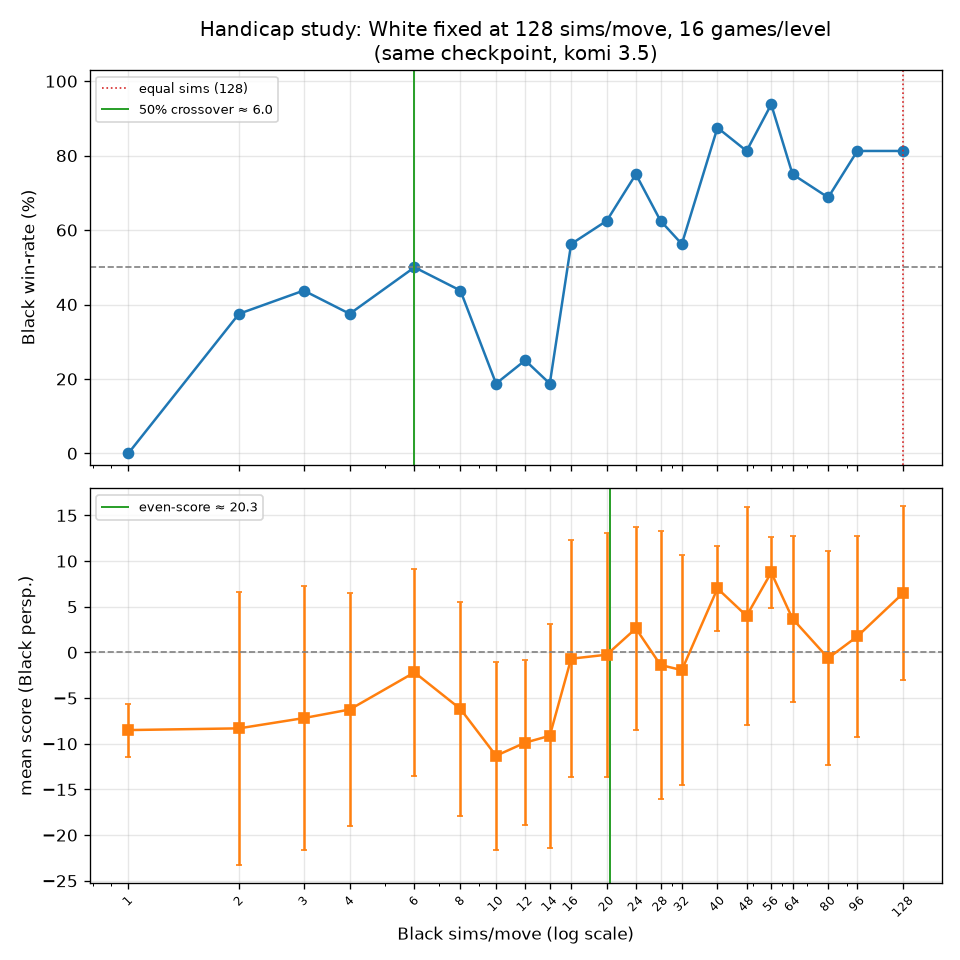
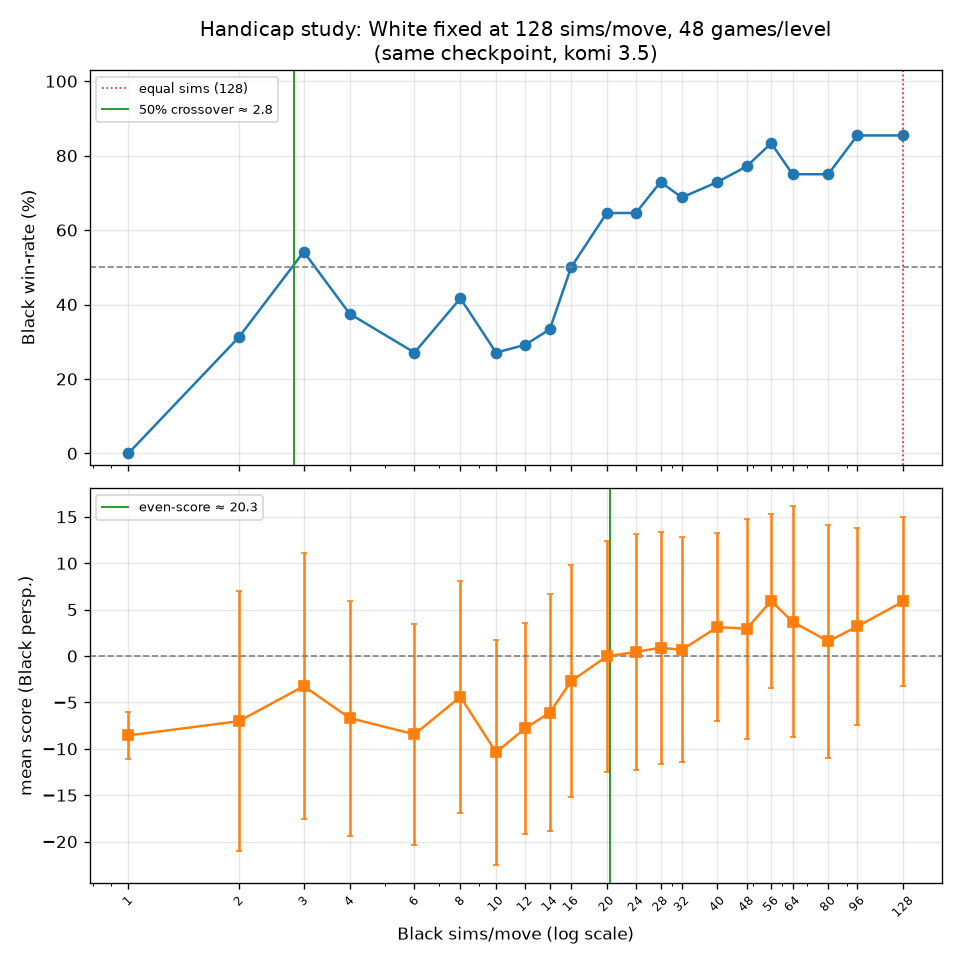
Resample handicap study at 48 games/point (smoother, sharper result)
Tripling games/point (16 -> 48) tightens the curves and sharpens the finding:
the win-rate crossover is even lower than the noisy first pass suggested
(~2 sims for White=64, ~3 for White=128), while the score-margin even point
shifts ~3x (~6 -> ~20 sims). Updates both per-White graphs, the comparison
figure, the README table, and the narrative.

diff --git a/README.md b/README.md
@@ -70,7 +70,7 @@ randomized-opening games at each point, and plots Black's win-rate and mean scor
 margin:
 
 ```bash
-uv run python -m scripts.handicap_study --white-sims 64 --games 16
+uv run python -m scripts.handicap_study --white-sims 64 --games 48
 # -> study/handicap_white64.png  +  study/handicap_white64.csv
 ```
 
@@ -79,18 +79,18 @@ uv run python -m scripts.handicap_study --white-sims 64 --games 16
 ![Handicap study, White fixed at 64 sims](study/handicap_white64.png)
 
 The crossover is **startlingly low**. Against White's 64 simulations, Black
-reaches a break-even win-rate at only **~5 simulations** — a **~13× search
-deficit** — and only *loses the majority* once its search collapses to **≤4
-sims** (essentially raw policy with no lookahead). Give Black even a handful of
-simulations and the first-move advantage reasserts itself.
+reaches a break-even win-rate at only **~2 simulations** — a **~32× search
+deficit** — and only *loses the majority* when reduced to **1 sim** (raw policy,
+no lookahead at all). A single simulation of search is enough to claw back to
+even; give Black a handful and the first-move advantage takes over.
 
 | Black sims vs White's 64 | Black win-rate | mean score (Black) |
 |---|---|---|
 | 1  | 0%   | −8.6 |
-| 4  | 25%  | −8.9 |
-| **~5** | **~50% (crossover)** | **~0** |
-| 8  | 75%  | +4.8 |
-| 64 (equal) | 100% | +7.8 |
+| **~2** | **~52% (win-rate crossover)** | −2.2 |
+| ~6 | 62%  | **~0 (score even)** |
+| 8  | 77%  | +2.8 |
+| 64 (equal) | 96%  | +7.7 |
 
 ### White = 128 simulations/move, and the side-by-side
 
@@ -100,10 +100,10 @@ simulations and the first-move advantage reasserts itself.
 
 Doubling White's search splits the two metrics:
 
-- **Win-rate crossover barely moves: ~5 → ~6 sims.** Winning is binary, and
-  Black's first-move advantage is so structural that a few simulations win *more
-  often than not* regardless of how hard White searches.
-- **Score-margin even point shifts ~3×: ~8 → ~24 sims.** *By how much* Black
+- **Win-rate crossover barely moves: ~2 → ~3 sims.** Winning is binary, and
+  Black's first-move advantage is so structural that a couple of simulations win
+  *more often than not* regardless of how hard White searches.
+- **Score-margin even point shifts ~3×: ~6 → ~20 sims.** *By how much* Black
   wins or loses is far more sensitive — a deeper White holds a points deficit
   over Black across a much wider range (red sits below blue in the comparison).
 
@@ -112,8 +112,8 @@ often*.** The first move is worth so much that flipping the *result* requires
 reducing Black to near-random play, while the *margin* responds smoothly to
 search depth.
 
-> The curves are deliberately noisy (16 games/point); the trend is the message,
-> not any single wobble. Reproduce or refine any level with
+> Each point averages 48 randomized-opening games; the curves still wobble, so
+> read the trend, not any single point. Reproduce or refine any level with
 > `uv run python -m scripts.handicap_study --white-sims <N> --games <M>`.
 
 ---